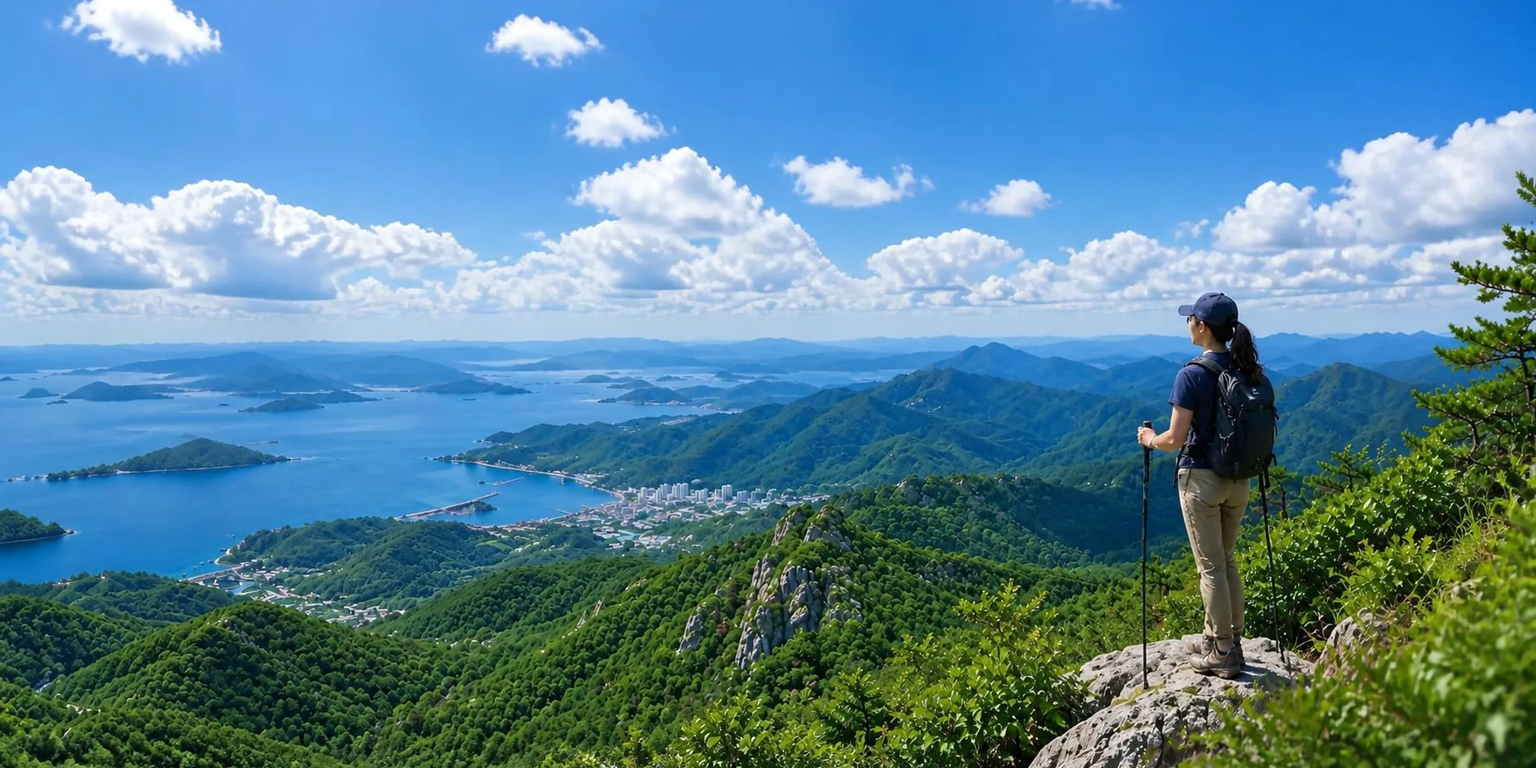
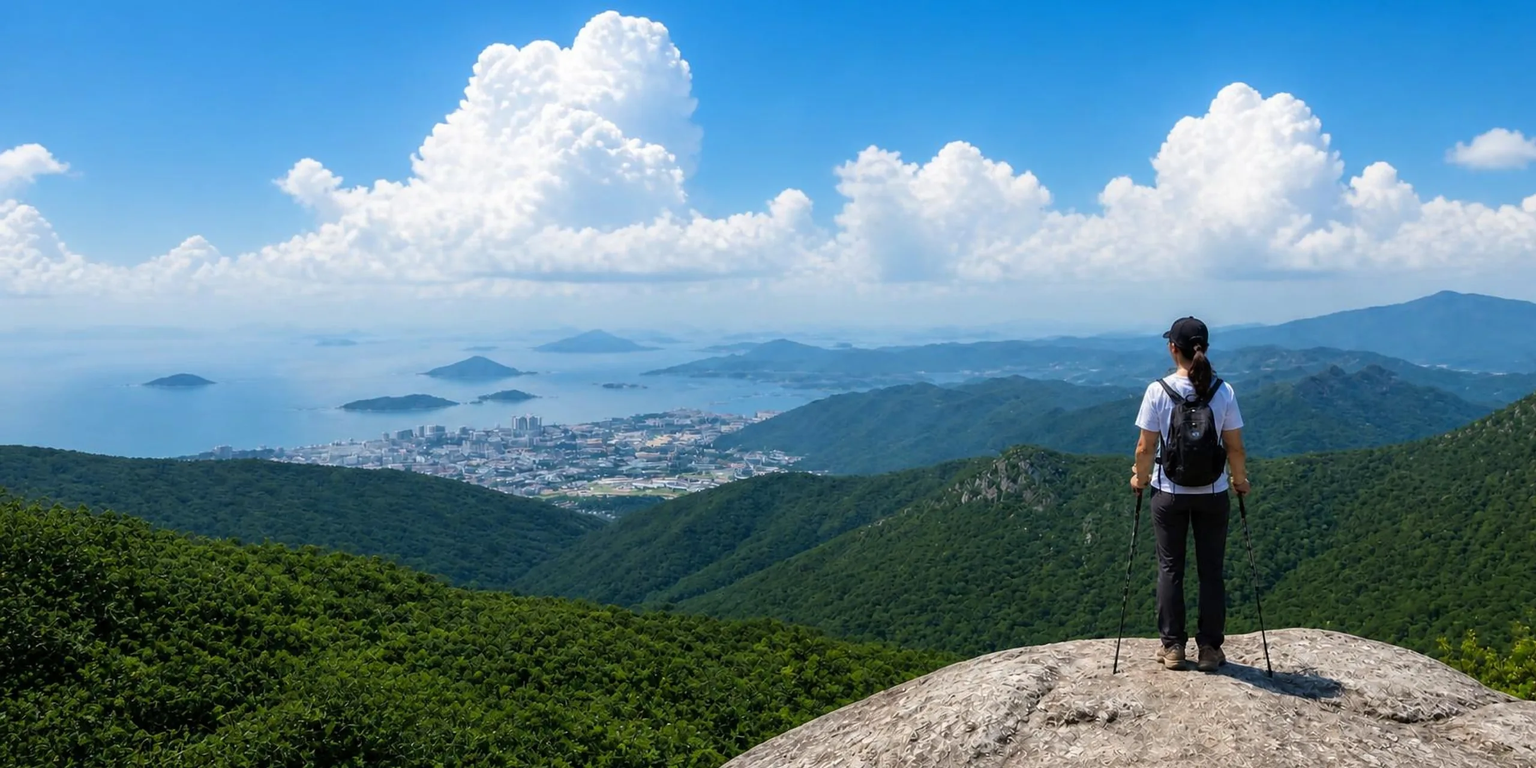
히어로 여름 낮 v11 적용 (승인 참조 기준 검수 통과)
Claude-Session: https://claude.ai/code/session_01TTPn3ts8fEyWREDupZmwxM

diff --git a/_src.html b/_src.html
@@ -13,7 +13,7 @@
 (function(){var k="";try{var d=new Date(),M=d.getMonth()+1,h=d.getHours();
 var s=M>=3&&M<=5?"spring":M>=6&&M<=8?"summer":M>=9&&M<=11?"autumn":"winter";
 var t=h>=4&&h<7?"dawn":h>=7&&h<17?"day":h>=17&&h<21?"evening":"night";k=s+"-"+t;
-var READY={"spring-dawn":1,"spring-day":1,"spring-evening":1,"spring-night":1,"summer-dawn":1};/* 검수 통과분만 노출, 나머지는 원본 히어로 */
+var READY={"spring-dawn":1,"spring-day":1,"spring-evening":1,"spring-night":1,"summer-dawn":1,"summer-day":1};/* 검수 통과분만 노출, 나머지는 원본 히어로 */
 window.__heroReady=READY;if(!READY[k])k="";
 var q=/[?&]hero=((?:spring|summer|autumn|winter)-(?:dawn|day|evening|night))(?:&|$)/.exec(location.search);if(q&&READY[q[1]])k=q[1];}catch(e){k="";}
 window.__hero=k;var a=k?"/img/hero/"+k:"/img/hero",b=k?"/img/hero/"+k+"-m.webp":"/img/hero-m.webp";
@@ -333,7 +333,7 @@ footer{background:var(--dark);color:rgba(255,255,255,.5);border-top:1px solid rg
       <img class="bg" id="heroImg" width="2560" height="1280" alt="산 정상 바위에 서서 다도해와 겹겹의 산줄기를 바라보는 등산객" fetchpriority="high" />
     </picture>
     <script>(function(){var k=window.__hero,i=document.getElementById("heroImg"),s=document.getElementById("heroSrc"),w=document.getElementById("bgwrap");
-var C={"spring-dawn":["#c79d96","#43383d"],"spring-day":["#6fb0dc","#6d6f5e"],"spring-evening":["#db9d6b","#492b22"],"spring-night":["#0c1829","#0f0e13"],"summer-dawn":["#cab3a1","#39403e"],"summer-day":["#75abe1","#3a5f55"],"summer-evening":["#c78665","#594429"],"summer-night":["#0f2951","#0c1826"],"autumn-dawn":["#9482ba","#5c4159"],"autumn-day":["#81b5db","#6b5e5b"],"autumn-evening":["#c69164","#693821"],"autumn-night":["#1b293a","#17151a"],"winter-dawn":["#a8acce","#475986"],"winter-day":["#afcfee","#77879c"],"winter-evening":["#8d7575","#4e3f4f"],"winter-night":["#182742","#1c273d"]};function fb(){s.srcset="/img/hero-m.webp";i.src="/img/hero.webp";w.style.backgroundImage="";}
+var C={"spring-dawn":["#c79d96","#43383d"],"spring-day":["#6fb0dc","#6d6f5e"],"spring-evening":["#db9d6b","#492b22"],"spring-night":["#0c1829","#0f0e13"],"summer-dawn":["#cab3a1","#39403e"],"summer-day":["#82b6df","#40544d"],"summer-evening":["#c78665","#594429"],"summer-night":["#0f2951","#0c1826"],"autumn-dawn":["#9482ba","#5c4159"],"autumn-day":["#81b5db","#6b5e5b"],"autumn-evening":["#c69164","#693821"],"autumn-night":["#1b293a","#17151a"],"winter-dawn":["#a8acce","#475986"],"winter-day":["#afcfee","#77879c"],"winter-evening":["#8d7575","#4e3f4f"],"winter-night":["#182742","#1c273d"]};function fb(){s.srcset="/img/hero-m.webp";i.src="/img/hero.webp";w.style.backgroundImage="";}
 if(!k){fb();return;}i.addEventListener("error",function(){if(!i.getAttribute("data-fb")){i.setAttribute("data-fb","1");fb();}});
 if(C[k])w.style.backgroundImage="linear-gradient(180deg,"+C[k][0]+","+C[k][1]+")";
 s.srcset="/img/hero/"+k+"-m.webp";i.src="/img/hero/"+k+".webp";})();</script>

diff --git a/index.html b/index.html
@@ -13,7 +13,7 @@
 (function(){var k="";try{var d=new Date(),M=d.getMonth()+1,h=d.getHours();
 var s=M>=3&&M<=5?"spring":M>=6&&M<=8?"summer":M>=9&&M<=11?"autumn":"winter";
 var t=h>=4&&h<7?"dawn":h>=7&&h<17?"day":h>=17&&h<21?"evening":"night";k=s+"-"+t;
-var READY={"spring-dawn":1,"spring-day":1,"spring-evening":1,"spring-night":1,"summer-dawn":1};/* 검수 통과분만 노출, 나머지는 원본 히어로 */
+var READY={"spring-dawn":1,"spring-day":1,"spring-evening":1,"spring-night":1,"summer-dawn":1,"summer-day":1};/* 검수 통과분만 노출, 나머지는 원본 히어로 */
 window.__heroReady=READY;if(!READY[k])k="";
 var q=/[?&]hero=((?:spring|summer|autumn|winter)-(?:dawn|day|evening|night))(?:&|$)/.exec(location.search);if(q&&READY[q[1]])k=q[1];}catch(e){k="";}
 window.__hero=k;var a=k?"/img/hero/"+k:"/img/hero",b=k?"/img/hero/"+k+"-m.webp":"/img/hero-m.webp";
@@ -333,7 +333,7 @@ footer{background:var(--dark);color:rgba(255,255,255,.5);border-top:1px solid rg
       <img class="bg" id="heroImg" width="2560" height="1280" alt="산 정상 바위에 서서 다도해와 겹겹의 산줄기를 바라보는 등산객" fetchpriority="high" />
     </picture>
     <script>(function(){var k=window.__hero,i=document.getElementById("heroImg"),s=document.getElementById("heroSrc"),w=document.getElementById("bgwrap");
-var C={"spring-dawn":["#c79d96","#43383d"],"spring-day":["#6fb0dc","#6d6f5e"],"spring-evening":["#db9d6b","#492b22"],"spring-night":["#0c1829","#0f0e13"],"summer-dawn":["#cab3a1","#39403e"],"summer-day":["#75abe1","#3a5f55"],"summer-evening":["#c78665","#594429"],"summer-night":["#0f2951","#0c1826"],"autumn-dawn":["#9482ba","#5c4159"],"autumn-day":["#81b5db","#6b5e5b"],"autumn-evening":["#c69164","#693821"],"autumn-night":["#1b293a","#17151a"],"winter-dawn":["#a8acce","#475986"],"winter-day":["#afcfee","#77879c"],"winter-evening":["#8d7575","#4e3f4f"],"winter-night":["#182742","#1c273d"]};function fb(){s.srcset="/img/hero-m.webp";i.src="/img/hero.webp";w.style.backgroundImage="";}
+var C={"spring-dawn":["#c79d96","#43383d"],"spring-day":["#6fb0dc","#6d6f5e"],"spring-evening":["#db9d6b","#492b22"],"spring-night":["#0c1829","#0f0e13"],"summer-dawn":["#cab3a1","#39403e"],"summer-day":["#82b6df","#40544d"],"summer-evening":["#c78665","#594429"],"summer-night":["#0f2951","#0c1826"],"autumn-dawn":["#9482ba","#5c4159"],"autumn-day":["#81b5db","#6b5e5b"],"autumn-evening":["#c69164","#693821"],"autumn-night":["#1b293a","#17151a"],"winter-dawn":["#a8acce","#475986"],"winter-day":["#afcfee","#77879c"],"winter-evening":["#8d7575","#4e3f4f"],"winter-night":["#182742","#1c273d"]};function fb(){s.srcset="/img/hero-m.webp";i.src="/img/hero.webp";w.style.backgroundImage="";}
 if(!k){fb();return;}i.addEventListener("error",function(){if(!i.getAttribute("data-fb")){i.setAttribute("data-fb","1");fb();}});
 if(C[k])w.style.backgroundImage="linear-gradient(180deg,"+C[k][0]+","+C[k][1]+")";
 s.srcset="/img/hero/"+k+"-m.webp";i.src="/img/hero/"+k+".webp";})();</script>
